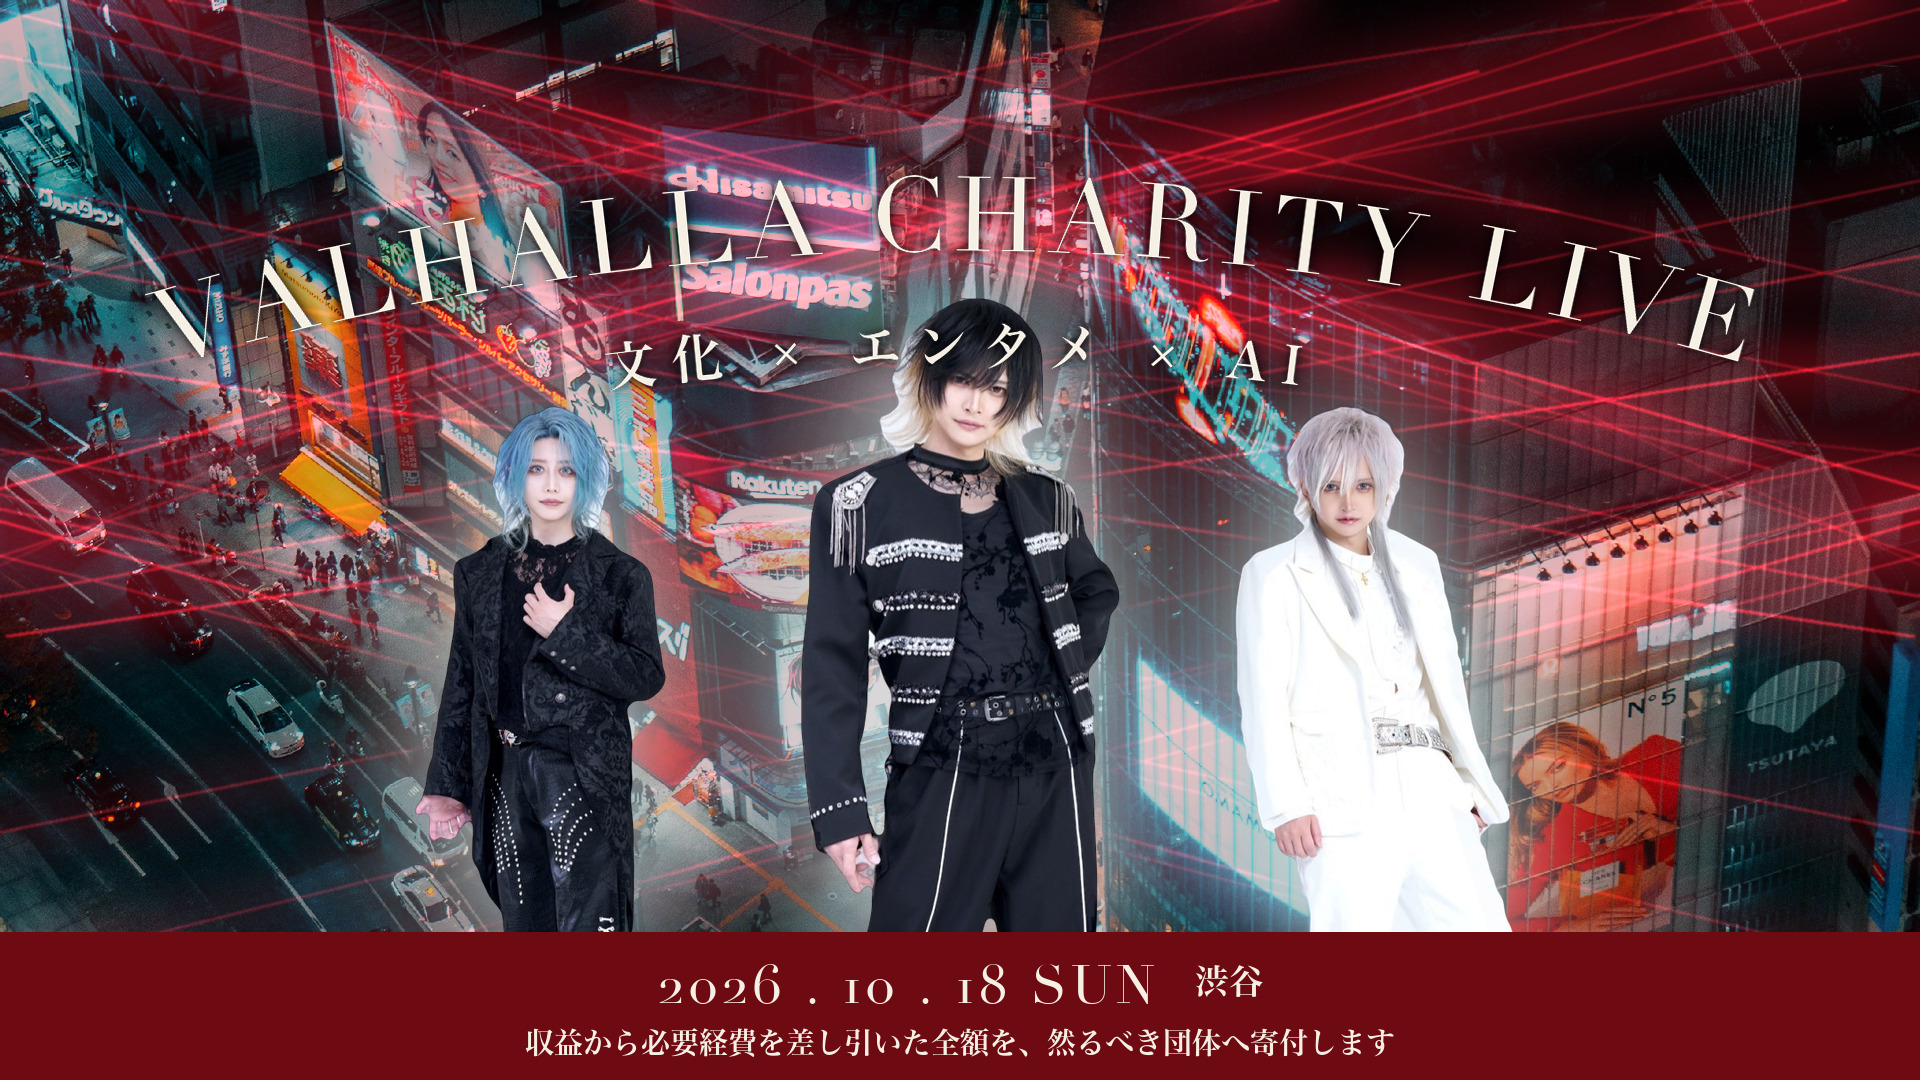
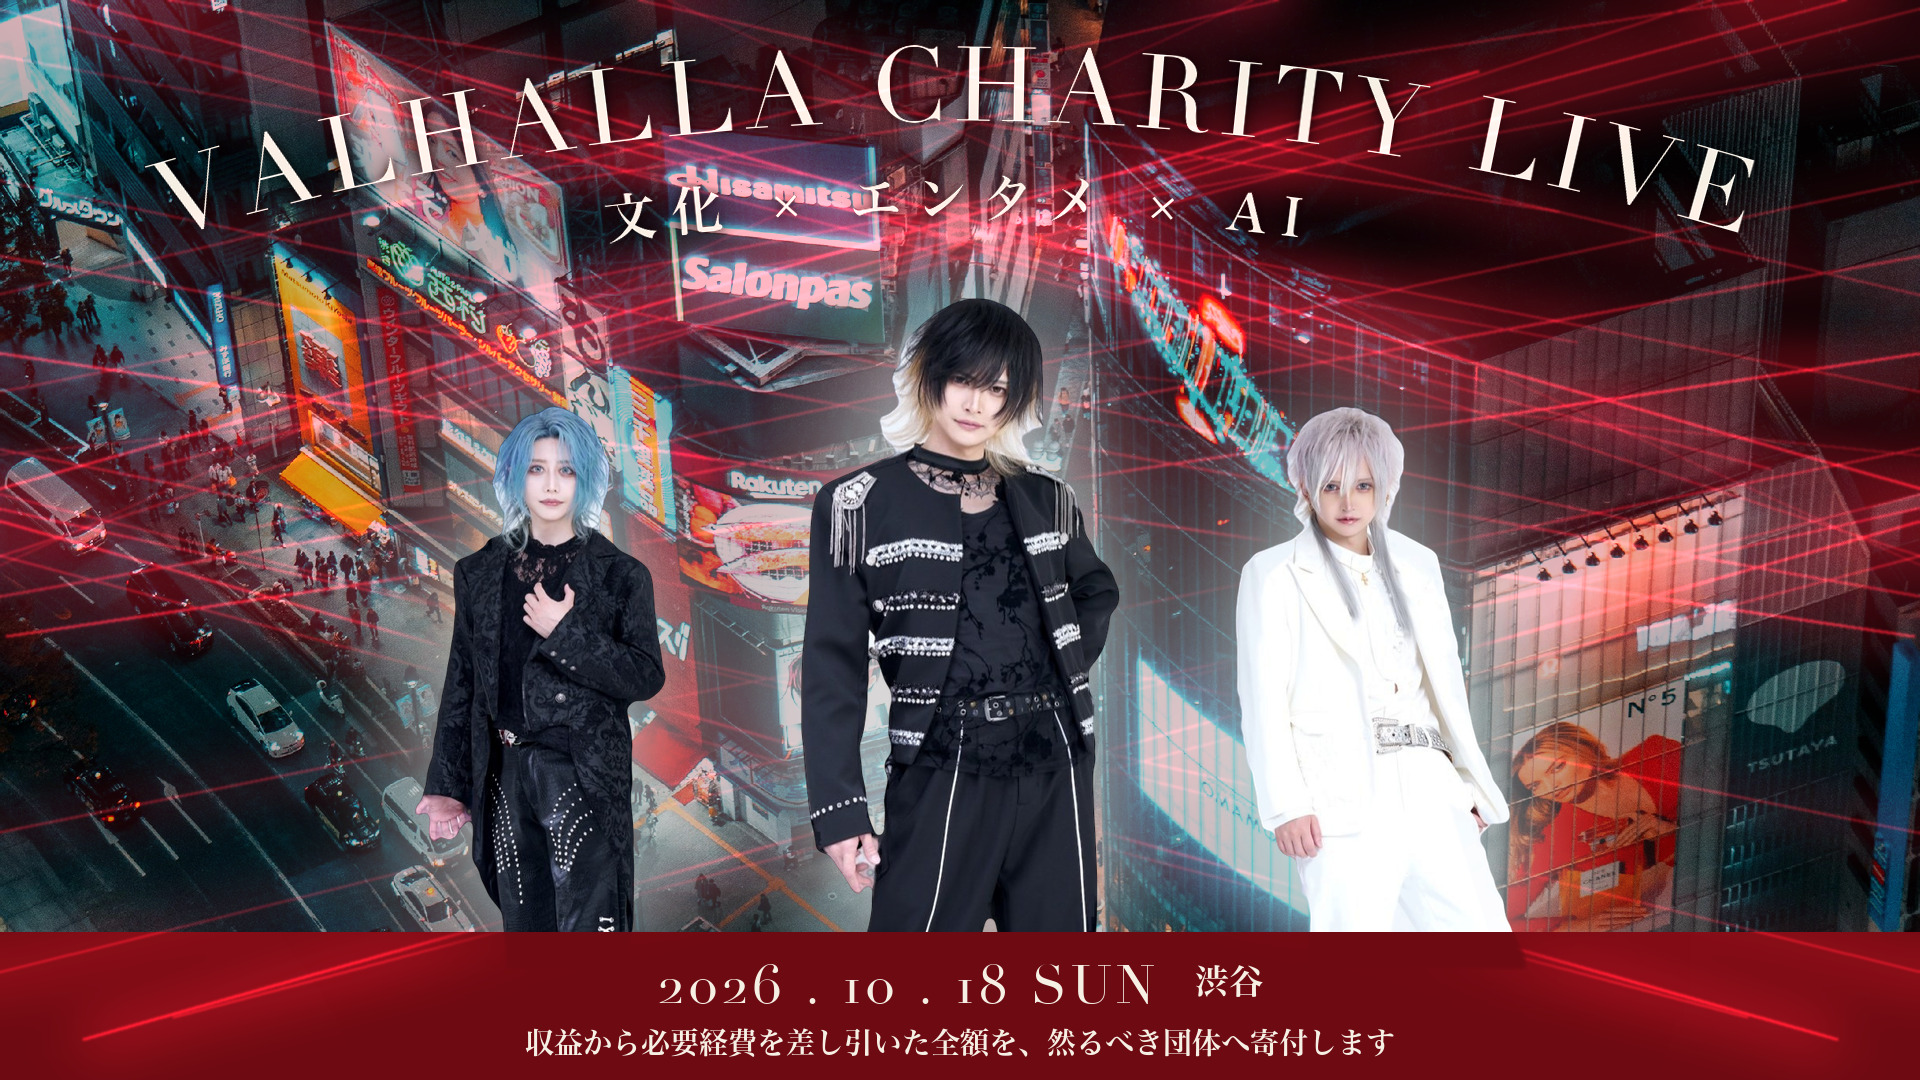
charity: clear the type off the three of them
The arch sat across the middle member's hair. Raising both curves lifts
them above the tallest head, so the name and the three words read whole
with nobody crossing them. Drawing them before the figures keeps it that
way if anyone shifts later -- a person would occlude the text rather
than the text landing on a face.

The band at the foot moves in front of the figures instead, because
their legs were cutting through the date and the donation line.

diff --git a/assets/charity/create_flyer_wide.py b/assets/charity/create_flyer_wide.py
@@ -192,11 +192,12 @@ def cutouts() -> list[Image.Image]:
     return people
 
 
-def add_people(base: Image.Image) -> tuple[Image.Image, Image.Image]:
+def add_people(base: Image.Image):
     """中央を大きく、左右を小さく下げて、中央へ視線が集まる形にする。
 
-    3人の背後に白いもやを敷き、(もやのマスク, 3人のシルエット) を返す。
-    呼び出し側はこれでレーザーを止める。
+    ここでは背後のもやまでを描き、(配置, もやのマスク, シルエット) を返す。
+    人物そのものは paste_people で最後に貼る。文字より後に貼ることで、
+    文字が人物にかからない（人物が手前に立つ）。
     """
     people = cutouts()
     base_y = 968                                   # 足元をそろえる高さ
@@ -240,10 +241,13 @@ def add_people(base: Image.Image) -> tuple[Image.Image, Image.Image]:
     white.putalpha(haze.point(lambda v: round(v * 0.62)))
     base.alpha_composite(white)
 
-    # 左右を先に、中央を最後に置いて、中央人物を視覚的な主役にする。
+    return placed, haze, solid
+
+
+def paste_people(base: Image.Image, placed) -> None:
+    """左右を先に、中央を最後に置いて、中央人物を視覚的な主役にする。"""
     for person, x, y in (placed[0], placed[2], placed[1]):
         base.alpha_composite(person, (x, y))
-    return haze, solid
 
 
 def arc_text(base: Image.Image, text: str, font: ImageFont.FreeTypeFont,
@@ -280,12 +284,16 @@ def add_type(base: Image.Image) -> None:
 
     # 主役：イベント名。頭の上に大きなアーチで置く。
     arc_text(base, "VALHALLA CHARITY LIVE", face(DIDOT, 104), CREAM + (255,),
-             W // 2, 3050, 2830, tracking=10)
+             W // 2, 2880, 2790, tracking=10)
 
     # 補足：3語のスローガン。主役より一回り小さく、内側のアーチに。
     arc_text(base, "文化 × エンタメ × AI", face(MINCHO, 52), CREAM + (255,),
-             W // 2, 3050, 2690, tracking=14)
+             W // 2, 2880, 2668, tracking=14)
 
+
+def add_band(base: Image.Image) -> None:
+    """最下部の帯。人物より前に描いて、日付と寄付の一行を必ず読ませる。"""
+    d = ImageDraw.Draw(base)
     # 最下部：日付と寄付の一行を帯にして必ず読ませる。
     band = H - 148
     d.rectangle((0, band, W, H), fill=DEEPEST_CRIMSON + (255,))
@@ -306,7 +314,13 @@ def add_type(base: Image.Image) -> None:
 
 def main() -> None:
     canvas = add_lasers(background()).convert("RGBA")
-    haze, solid = add_people(canvas)
+    placed, haze, solid = add_people(canvas)
+
+    # 文字を先に描き、そのあとに人物を貼る。こうすると文字が
+    # 人物の上に乗らず、3人が文字の手前に立っているように見える。
+    add_type(canvas)
+    paste_people(canvas, placed)
+    add_band(canvas)
 
     # 人物の前にもレーザーを走らせる。ただし
     #   ・3人の体の上には一切かけない（シルエットで完全に止める）
@@ -319,7 +333,6 @@ def main() -> None:
     keep = ImageChops.invert(block)
     over = Image.merge("RGB", [ImageChops.multiply(ch, keep) for ch in over.split()])
     canvas = ImageChops.add(canvas.convert("RGB"), over).convert("RGBA")
-    add_type(canvas)
     out = canvas.convert("RGB")
     out.save(OUTPUT, quality=92, subsampling=0, optimize=True)
     if out.size != (W, H):
